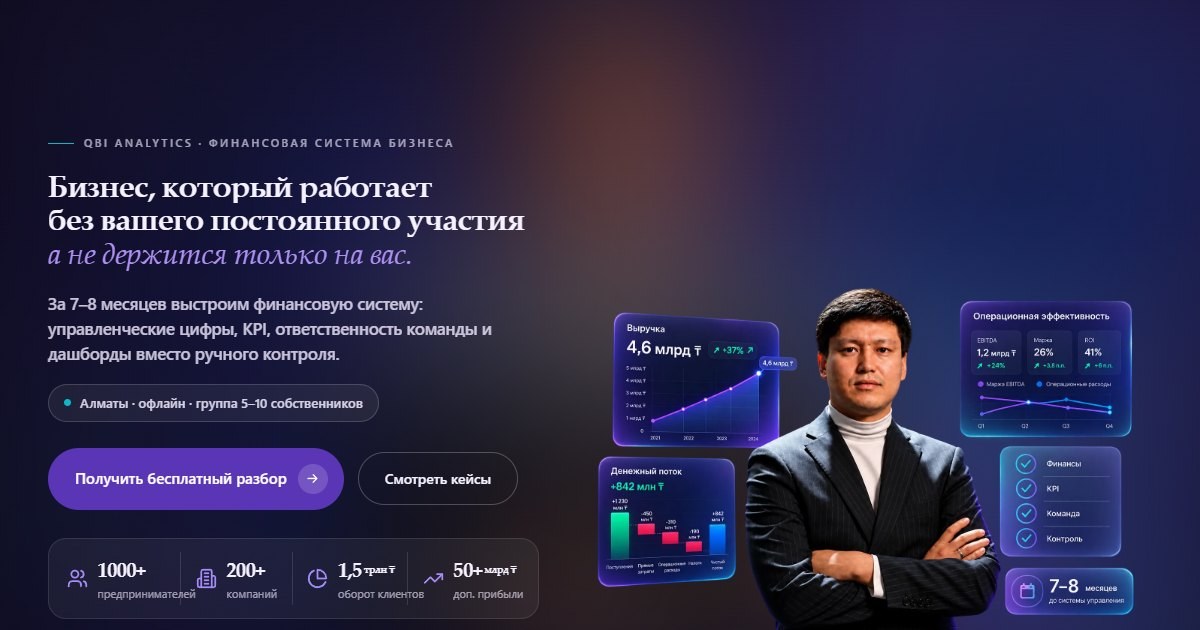
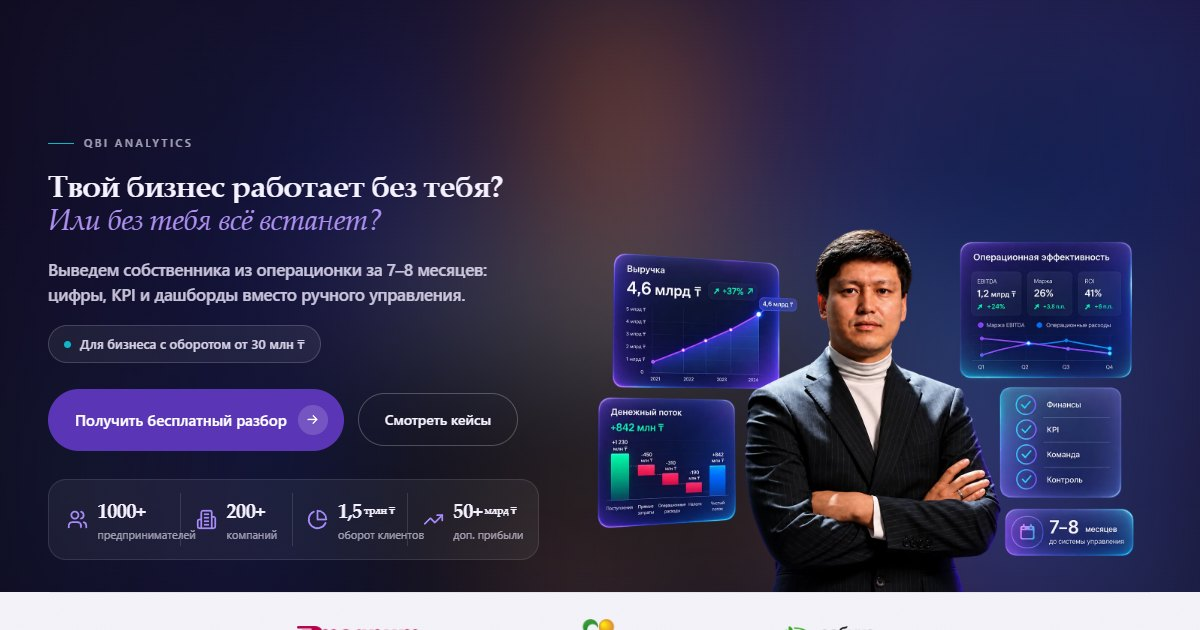
Тексты hero один в один с ТЗ, бейдж про оборот от 30 млн, синхронизация title/OG и новая обложка

diff --git a/index.html b/index.html
@@ -3,22 +3,22 @@
 <head>
 <meta charset="utf-8">
 <meta name="viewport" content="width=device-width, initial-scale=1, viewport-fit=cover">
-<title>QBI Analytics · Бизнес, который работает без вас</title>
+<title>QBI Analytics · Твой бизнес работает без тебя?</title>
 <meta name="description" content="Выведем собственника из операционки за 7–8 месяцев: цифры, KPI и дашборды вместо ручного управления. Бесплатный разбор от Максата Калибекова, основателя QBI Analytics.">
 <link rel="canonical" href="https://qbi-site.pages.dev/">
 <meta property="og:type" content="website">
 <meta property="og:site_name" content="QBI Analytics">
 <meta property="og:locale" content="ru_RU">
-<meta property="og:title" content="QBI Analytics · Бизнес, который работает без вас">
-<meta property="og:description" content="За 7–8 месяцев выстроим финансовую систему: управленческие цифры, KPI и дашборды вместо ручного контроля. Бесплатный разбор от Максата Калибекова.">
+<meta property="og:title" content="QBI Analytics · Твой бизнес работает без тебя?">
+<meta property="og:description" content="Выведем собственника из операционки за 7–8 месяцев: цифры, KPI и дашборды вместо ручного управления. Бесплатный разбор от Максата Калибекова.">
 <meta property="og:url" content="https://qbi-site.pages.dev/">
-<meta property="og:image" content="https://qbi-site.pages.dev/assets/og-cover.jpg?v=2">
+<meta property="og:image" content="https://qbi-site.pages.dev/assets/og-cover.jpg?v=3">
 <meta property="og:image:width" content="1200">
 <meta property="og:image:height" content="630">
 <meta name="twitter:card" content="summary_large_image">
-<meta name="twitter:title" content="QBI Analytics · Бизнес, который работает без вас">
-<meta name="twitter:description" content="За 7–8 месяцев выстроим финансовую систему: управленческие цифры, KPI и дашборды вместо ручного контроля. Бесплатный разбор от Максата Калибекова.">
-<meta name="twitter:image" content="https://qbi-site.pages.dev/assets/og-cover.jpg?v=2">
+<meta name="twitter:title" content="QBI Analytics · Твой бизнес работает без тебя?">
+<meta name="twitter:description" content="Выведем собственника из операционки за 7–8 месяцев: цифры, KPI и дашборды вместо ручного управления. Бесплатный разбор от Максата Калибекова.">
+<meta name="twitter:image" content="https://qbi-site.pages.dev/assets/og-cover.jpg?v=3">
 <meta name="theme-color" content="#f4f3f9">
 <link rel="icon" href="/favicon.ico" sizes="32x32">
 <link rel="icon" href="assets/favicon-192.png" type="image/png" sizes="192x192">
@@ -234,8 +234,10 @@
   /* PROGRAM */
   .prog { display: grid; grid-template-columns: repeat(6, 1fr); gap: 14px; margin-top: 40px; }
   .blk { position: relative; overflow: hidden; border: 1px solid var(--hair); border-radius: var(--r-md); background: var(--surface); padding: clamp(22px,2vw,28px); display: flex; flex-direction: column; }
-  .blk::after { content: ""; position: absolute; inset: 0; pointer-events: none; background: var(--blk-art) right -30px bottom -34px / auto 116% no-repeat; opacity: 0.75; }
   .blk > * { position: relative; z-index: 1; }
+  .blk-ico { position: absolute; top: 15px; right: 15px; width: 74px; height: 74px; border-radius: 16px; border: 1px solid var(--hair); background: #fff; overflow: hidden; }
+  .blk-ico img { width: 132%; height: 132%; object-fit: cover; object-position: 50% 58%; margin: -16% 0 0 -16%; display: block; }
+  .blk h4 { padding-right: 66px; }
   .prog > .blk { grid-column: span 2; }
   .blk.wide { grid-column: span 3; }
   .blk.half { grid-column: span 3; }
@@ -467,7 +469,6 @@
   h1 .ln > span { transform: translateY(105%); transition: transform 1s var(--ease); }
   body.loaded h1 .ln > span { transform: translateY(0); }
   body.loaded h1 .l2 { transition-delay: .1s; }
-  body.loaded h1 .l3 { transition-delay: .2s; }
 
   /* Stickers — pinned to headings */
   .stick { display: inline-block; width: clamp(92px,10vw,150px); margin-left: 18px; vertical-align: middle; transform: rotate(var(--rot,7deg)) translateY(-8px); pointer-events: none; user-select: none; }
@@ -607,10 +608,10 @@
 <!-- HERO -->
 <section class="hero hero-dark">
   <div class="hero-text">
-    <span class="eyebrow">QBI Analytics · финансовая система бизнеса</span>
-    <h1 class="hero-h"><span class="ln"><span class="l1">Бизнес, который работает</span></span><span class="ln"><span class="l2">без вашего постоянного участия</span></span><span class="ln"><span class="l3"><em>а не держится только на вас.</em></span></span></h1>
-    <p class="role">За 7–8 месяцев выстроим финансовую систему: управленческие цифры, KPI, ответственность команды и дашборды вместо ручного контроля.</p>
-    <div class="hero-note">Алматы · офлайн · группа 5–10 собственников</div>
+    <span class="eyebrow">QBI Analytics</span>
+    <h1 class="hero-h"><span class="ln"><span class="l1">Твой бизнес работает без тебя?</span></span><span class="ln"><span class="l2"><em>Или без тебя всё встанет?</em></span></span></h1>
+    <p class="role">Выведем собственника из операционки за 7–8 месяцев: цифры, KPI и дашборды вместо ручного управления.</p>
+    <div class="hero-note">Для бизнеса с оборотом от 30 млн ₸</div>
     <div class="cta-row">
       <a href="#form" class="btn btn-primary btn-lg">Получить бесплатный разбор <span class="chip"><svg width="15" height="15" viewBox="0 0 24 24" fill="none" stroke="currentColor" stroke-width="2.2" stroke-linecap="round" stroke-linejoin="round"><path d="M5 12h14M13 6l6 6-6 6"/></svg></span></a>
       <a href="#cases" class="btn btn-ghost">Смотреть кейсы</a>
@@ -720,7 +721,8 @@
     <h2 class="h-sec reveal">Что будет на <em>разборе</em><span class="stick" aria-hidden="true"><img src="assets/stickers/Screenshot_2.png" alt="" loading="lazy"></span></h2>
     <p class="lead reveal">Практика на реальных цифрах вашего бизнеса. Ниже — ключевой блок программы; полную структуру из 5 модулей пройдём на разборе.</p>
     <div class="prog">
-      <div class="blk half reveal" style="--blk-art:url(assets/prog-expenses.webp)">
+      <div class="blk half reveal">
+        <span class="blk-ico" aria-hidden="true"><img src="assets/prog-expenses.webp" alt="" loading="lazy"></span>
         <span class="num">Блок 1</span>
         <h4>Управление расходами</h4>
         <ul>
@@ -730,7 +732,8 @@
           <li>KPI команды по расходам</li>
         </ul>
       </div>
-      <div class="blk half reveal" style="--blk-art:url(assets/prog-revenue.webp)">
+      <div class="blk half reveal">
+        <span class="blk-ico" aria-hidden="true"><img src="assets/prog-revenue.webp" alt="" loading="lazy"></span>
         <span class="num">Блок 2</span>
         <h4>Управление доходами</h4>
         <ul>
@@ -742,9 +745,9 @@
           <li>Факторный анализ</li>
         </ul>
       </div>
-      <div class="blk reveal" style="--blk-art:url(assets/prog-turnover.webp)"><span class="num">Блок 3</span><h4>Оборачиваемость</h4><p class="soon">Товарные запасы, рабочий капитал и деньги, замороженные на складе.</p></div>
-      <div class="blk reveal" style="--blk-art:url(assets/prog-team.webp)"><span class="num">Блок 4</span><h4>Мотивация команды</h4><p class="soon">Как сотрудники экономят миллионы и почему это влияет на стоимость бизнеса.</p></div>
-      <div class="blk reveal" style="--blk-art:url(assets/prog-reports.webp)"><span class="num">Блок 5</span><h4>Отчётность и Power BI</h4><p class="soon">P&amp;L, ДДС, рабочий капитал — наглядные отчёты для управления финансами.</p></div>
+      <div class="blk reveal"><span class="blk-ico" aria-hidden="true"><img src="assets/prog-turnover.webp" alt="" loading="lazy"></span><span class="num">Блок 3</span><h4>Оборачиваемость</h4><p class="soon">Товарные запасы, рабочий капитал и деньги, замороженные на складе.</p></div>
+      <div class="blk reveal"><span class="blk-ico" aria-hidden="true"><img src="assets/prog-team.webp" alt="" loading="lazy"></span><span class="num">Блок 4</span><h4>Мотивация команды</h4><p class="soon">Как сотрудники экономят миллионы и почему это влияет на стоимость бизнеса.</p></div>
+      <div class="blk reveal"><span class="blk-ico" aria-hidden="true"><img src="assets/prog-reports.webp" alt="" loading="lazy"></span><span class="num">Блок 5</span><h4>Отчётность и Power BI</h4><p class="soon">P&amp;L, ДДС, рабочий капитал — наглядные отчёты для управления финансами.</p></div>
     </div>
   </div>
 </section>
